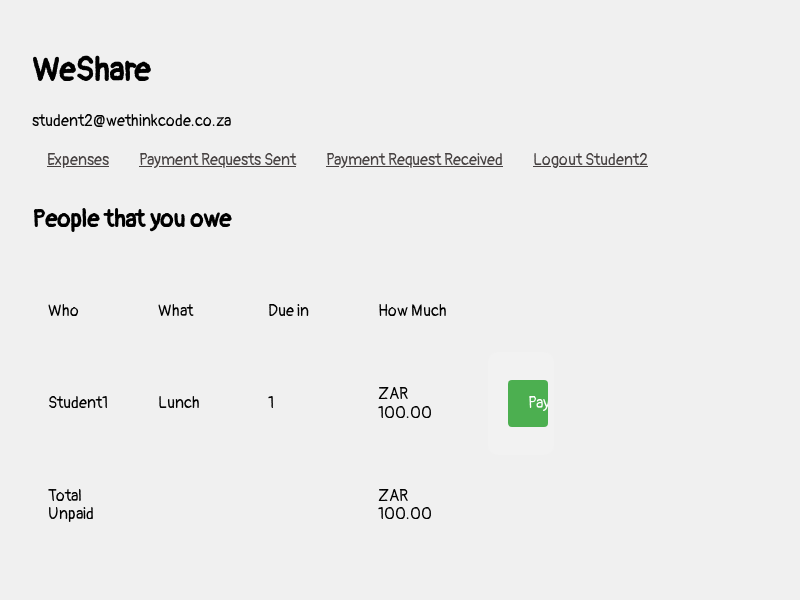
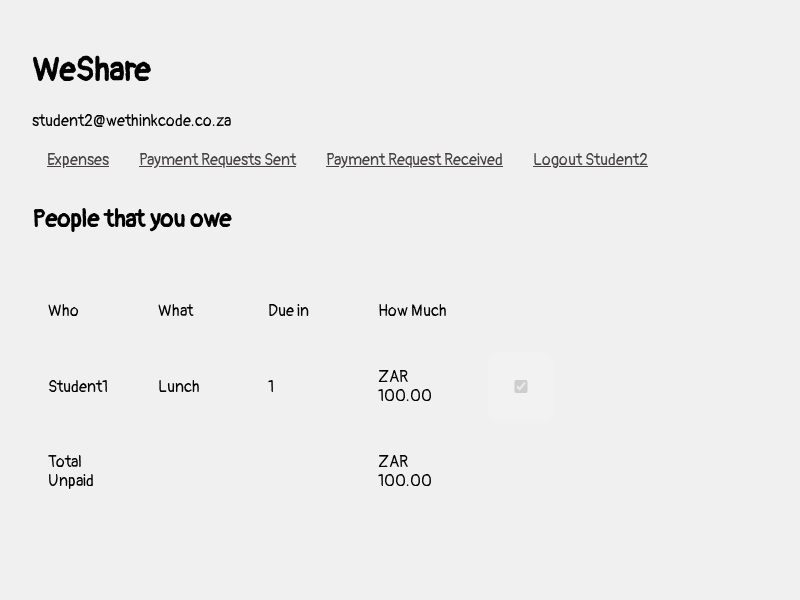
oof

diff --git a/src/main/resources/templates/expenses.html b/src/main/resources/templates/expenses.html
@@ -10,11 +10,8 @@
     <section class="expenseList">
         <h2>My Expenses</h2>
         <a id="add_expense" href="/newexpense">Add a new expense</a>
-        <div>
-
-        </div>
         <p id="no_expenses" th:if="${#lists.isEmpty(expenses)}">You don't have any expenses!</p>
-        <table th:unless="${#lists.isEmpty(expenses)}">
+        <table th:unless="${#lists.isEmpty(expenses) || allExpensesPaid}">
             <thead>
                 <tr>
                     <th>When</th>
@@ -26,19 +23,19 @@
                 </tr>
             </thead>
             <tbody>
-                
-                <tr  th:each="expense : ${expenses}">
+                <tr th:each="expense : ${expenses}">
                     
-                    <td th:id = "date_+${expense.id}" th:text="${expense.getDate()}">When</td>
-                    <td th:id="description_+${expense.id}">
-                        <a th:href="'/paymentrequest?expenseId=' +${expense.id}" th:id="payment_request_+${expense.id}" th:text="${expense.getDescription()}">What</a>
-                    </td>
-                    <td th:id = "amount_+${expense.id}" th:text="${expense.getAmount()}">Amount Spent</td>
-                    <td th:id = "request_+${expense.id}" th:text="${expense.totalAmountOfPaymentsRequested()}">Payments Requested</td>
-                    <td th:id = "received_+${expense.id}" th:text="${expense.totalAmountForPaymentsReceived()}">Payments Received</td>
-                    <td th:id = "nett_+${expense.id}" th:text="${expense.amountLessPaymentsReceived()}">Nett Expense</td>
-
+                        <td th:id = "date_+${expense.id}" th:text="${expense.getDate()}">When</td>
+                        <td th:id="description_+${expense.id}">
+                            <a th:href="'/paymentrequest?expenseId=' +${expense.id}" th:id="payment_request_+${expense.id}" th:text="${expense.getDescription()}">What</a>
+                        </td>
+                        <td th:id = "amount_+${expense.id}" th:text="${expense.getAmount()}">Amount Spent</td>
+                        <td th:id = "request_+${expense.id}" th:text="${expense.totalAmountOfPaymentsRequested()}">Payments Requested</td>
+                        <td th:id = "received_+${expense.id}" th:text="${expense.totalAmountForPaymentsReceived()}">Payments Received</td>
+                        <td th:id = "nett_+${expense.id}" th:text="${expense.amountLessPaymentsReceived()}">Nett Expense</td>
+                   
                 </tr>
+            
             </tbody>
             <tfoot> 
                 <tr> 

diff --git a/target/classes/templates/expenses.html b/target/classes/templates/expenses.html
@@ -10,11 +10,8 @@
     <section class="expenseList">
         <h2>My Expenses</h2>
         <a id="add_expense" href="/newexpense">Add a new expense</a>
-        <div>
-
-        </div>
         <p id="no_expenses" th:if="${#lists.isEmpty(expenses)}">You don't have any expenses!</p>
-        <table th:unless="${#lists.isEmpty(expenses)}">
+        <table th:unless="${#lists.isEmpty(expenses) || allExpensesPaid}">
             <thead>
                 <tr>
                     <th>When</th>
@@ -26,19 +23,19 @@
                 </tr>
             </thead>
             <tbody>
-                
-                <tr  th:each="expense : ${expenses}">
+                <tr th:each="expense : ${expenses}">
                     
-                    <td th:id = "date_+${expense.id}" th:text="${expense.getDate()}">When</td>
-                    <td th:id="description_+${expense.id}">
-                        <a th:href="'/paymentrequest?expenseId=' +${expense.id}" th:id="payment_request_+${expense.id}" th:text="${expense.getDescription()}">What</a>
-                    </td>
-                    <td th:id = "amount_+${expense.id}" th:text="${expense.getAmount()}">Amount Spent</td>
-                    <td th:id = "request_+${expense.id}" th:text="${expense.totalAmountOfPaymentsRequested()}">Payments Requested</td>
-                    <td th:id = "received_+${expense.id}" th:text="${expense.totalAmountForPaymentsReceived()}">Payments Received</td>
-                    <td th:id = "nett_+${expense.id}" th:text="${expense.amountLessPaymentsReceived()}">Nett Expense</td>
-
+                        <td th:id = "date_+${expense.id}" th:text="${expense.getDate()}">When</td>
+                        <td th:id="description_+${expense.id}">
+                            <a th:href="'/paymentrequest?expenseId=' +${expense.id}" th:id="payment_request_+${expense.id}" th:text="${expense.getDescription()}">What</a>
+                        </td>
+                        <td th:id = "amount_+${expense.id}" th:text="${expense.getAmount()}">Amount Spent</td>
+                        <td th:id = "request_+${expense.id}" th:text="${expense.totalAmountOfPaymentsRequested()}">Payments Requested</td>
+                        <td th:id = "received_+${expense.id}" th:text="${expense.totalAmountForPaymentsReceived()}">Payments Received</td>
+                        <td th:id = "nett_+${expense.id}" th:text="${expense.amountLessPaymentsReceived()}">Nett Expense</td>
+                   
                 </tr>
+            
             </tbody>
             <tfoot> 
                 <tr> 

diff --git a/src/main/resources/templates/paymentrequests_received.html b/src/main/resources/templates/paymentrequests_received.html
@@ -8,7 +8,7 @@
 <div layout:fragment="contents">
     <section class="expenseList">
         <h2>People that you owe</h2>
-        <p id="no_payment_requests_received" th:if="${#lists.isEmpty(paymentRequest)}">You don't owe anyone anything</p>
+        <p id="no_payment_requests_received" th:if="${#lists.isEmpty(paymentRequest)}">You don't owe anyone anything!</p>
         <table th:unless="${#lists.isEmpty(paymentRequest)}">
             <th>
                 <tr>
@@ -32,7 +32,7 @@
                     <td th:text="${PaymentRequests.getDescription}"></td>
                     <td th:text="${PaymentRequests.daysLeftToPay}"></td>
                     <td th:text="${PaymentRequests.getAmountToPay}"></td>
-                    <td>
+                    <td id="paid_1">
                         <form action="payment.action" method="post">
                             <label for="paymentId"></label>
                             <input type="hidden" name="paymentId" id="paymentId" th:value="${PaymentRequests.getId}">

diff --git a/target/classes/templates/paymentrequests_received.html b/target/classes/templates/paymentrequests_received.html
@@ -8,7 +8,7 @@
 <div layout:fragment="contents">
     <section class="expenseList">
         <h2>People that you owe</h2>
-        <p id="no_payment_requests_received" th:if="${#lists.isEmpty(paymentRequest)}">You don't owe anyone anything</p>
+        <p id="no_payment_requests_received" th:if="${#lists.isEmpty(paymentRequest)}">You don't owe anyone anything!</p>
         <table th:unless="${#lists.isEmpty(paymentRequest)}">
             <th>
                 <tr>
@@ -32,7 +32,7 @@
                     <td th:text="${PaymentRequests.getDescription}"></td>
                     <td th:text="${PaymentRequests.daysLeftToPay}"></td>
                     <td th:text="${PaymentRequests.getAmountToPay}"></td>
-                    <td>
+                    <td id="paid_1">
                         <form action="payment.action" method="post">
                             <label for="paymentId"></label>
                             <input type="hidden" name="paymentId" id="paymentId" th:value="${PaymentRequests.getId}">

diff --git a/src/main/resources/templates/paymentrequests_sent.html b/src/main/resources/templates/paymentrequests_sent.html
@@ -8,7 +8,7 @@
 <div layout:fragment="contents">
     <section class="expenseList">
         <h2>People that owe me</h2>
-        <p id="no_payment_requests_sent" th:if="${#lists.isEmpty(paymentRequest)}">Nobody owes you anything</p>
+        <p id="no_payment_requests_sent" th:if="${#lists.isEmpty(paymentRequest)}">Nobody owes you anything!</p>
         <table th:unless="${#lists.isEmpty(paymentRequest)}">
             <th>
                 <tr>
@@ -42,7 +42,7 @@
                     <td colspan="2">
                         
                     </td>
-                    <td th:text="${totalUnpaid}">
+                    <td id="grand_total" th:text="${totalUnpaid}">
                         
                     </td>
                 </tr>

diff --git a/target/classes/templates/paymentrequests_sent.html b/target/classes/templates/paymentrequests_sent.html
@@ -8,7 +8,7 @@
 <div layout:fragment="contents">
     <section class="expenseList">
         <h2>People that owe me</h2>
-        <p id="no_payment_requests_sent" th:if="${#lists.isEmpty(paymentRequest)}">Nobody owes you anything</p>
+        <p id="no_payment_requests_sent" th:if="${#lists.isEmpty(paymentRequest)}">Nobody owes you anything!</p>
         <table th:unless="${#lists.isEmpty(paymentRequest)}">
             <th>
                 <tr>
@@ -42,7 +42,7 @@
                     <td colspan="2">
                         
                     </td>
-                    <td th:text="${totalUnpaid}">
+                    <td id="grand_total" th:text="${totalUnpaid}">
                         
                     </td>
                 </tr>

diff --git a/src/main/resources/templates/paymentrequest.html b/src/main/resources/templates/paymentrequest.html
@@ -13,7 +13,7 @@
                 <td>
                     Date
                 </td>
-                <td id="expensedate" th:text="${expense.getDate()}">
+                <td id="expense_date" th:text="${expense.getDate()}">
                     
                 </td>
             </tr>
@@ -21,7 +21,7 @@
                 <td>
                     Description
                 </td>
-                <td id="expenseDescription" th:text="${expense.getDescription()}">
+                <td id="expense_description" th:text="${expense.getDescription()}">
 
                 </td>
             </tr>

diff --git a/target/classes/templates/paymentrequest.html b/target/classes/templates/paymentrequest.html
@@ -13,7 +13,7 @@
                 <td>
                     Date
                 </td>
-                <td id="expensedate" th:text="${expense.getDate()}">
+                <td id="expense_date" th:text="${expense.getDate()}">
                     
                 </td>
             </tr>
@@ -21,7 +21,7 @@
                 <td>
                     Description
                 </td>
-                <td id="expenseDescription" th:text="${expense.getDescription()}">
+                <td id="expense_description" th:text="${expense.getDescription()}">
 
                 </td>
             </tr>

diff --git a/src/main/resources/templates/newexpense.html b/src/main/resources/templates/newexpense.html
@@ -12,7 +12,7 @@
             <input type="text" id="description" name="description" required><br><br>
         
             <label for="date">Date</label>
-            <input type="date" id="date" name="date" required><br><br>
+            <input type="text" id="date" name="date" required><br><br>
         
             <label for="amount">Amount</label>
             <input type="number" id="amount" name="amount" required><br><br>

diff --git a/target/classes/templates/newexpense.html b/target/classes/templates/newexpense.html
@@ -12,7 +12,7 @@
             <input type="text" id="description" name="description" required><br><br>
         
             <label for="date">Date</label>
-            <input type="date" id="date" name="date" required><br><br>
+            <input type="text" id="date" name="date" required><br><br>
         
             <label for="amount">Amount</label>
             <input type="number" id="amount" name="amount" required><br><br>

diff --git a/src/main/java/weshare/controller/ExpensesController.java b/src/main/java/weshare/controller/ExpensesController.java
@@ -17,6 +17,8 @@ import java.math.BigDecimal;
 import java.time.LocalDate;
 import java.time.format.DateTimeFormatter;
 import java.util.Collection;
+import java.util.Collections;
+import java.util.HashMap;
 import java.util.Map;
 import java.util.stream.Collectors;
 
@@ -25,19 +27,36 @@ import static weshare.model.MoneyHelper.ZERO_RANDS;
 public class ExpensesController {
 
     public static final Handler view = context -> {
+        Map<String, Object> viewModel = new HashMap<>();
         ExpenseDAO expensesDAO = ServiceRegistry.lookup(ExpenseDAO.class);
         Person personLoggedIn = WeShareServer.getPersonLoggedIn(context);
 
         Collection<Expense> expenses = expensesDAO.findExpensesForPerson(personLoggedIn);
         MonetaryAmount totalExpense = totalExpense(expenses);
-        Map<String, Object> viewModel = Map.of("expenses", expenses, "totalExpense", totalExpense);
+
+        boolean allExpensesPaid = false;
+        if(totalExpense.equals(ZERO_RANDS)){
+            allExpensesPaid = true;
+        }
+
+        
+
+        if(allExpensesPaid){
+            viewModel = Map.of("expenses", Collections.emptyList());
+        }
+        else{
+            viewModel = Map.of("expenses", expenses, 
+                                            "totalExpense", totalExpense,
+                                            "allExpensesPaid", allExpensesPaid);
+        }
+        System.out.println(viewModel);
         context.render("expenses.html", viewModel);
     };
 
     private static MonetaryAmount totalExpense(Collection<Expense> expenses) {
         MonetaryAmount total = MoneyHelper.amountOf(0);
         for (Expense expense : expenses) {
-            total = total.add(expense.getAmount());
+            total = total.add(expense.amountLessPaymentsReceived());
         }
         return total;
     }
@@ -56,7 +75,7 @@ public class ExpensesController {
         String description = ctx.formParamMap().get("description").get(0);
         MonetaryAmount amount = MoneyHelper.amountOf(Integer.parseInt(ctx.formParamMap().get("amount").get(0)));
         String dateStr = ctx.formParamMap().get("date").get(0);
-        DateTimeFormatter dateFormatter = DateTimeFormatter.ofPattern("yyyy-MM-dd");
+        DateTimeFormatter dateFormatter = DateTimeFormatter.ofPattern("dd/MM/yyyy");
         LocalDate date = LocalDate.parse(dateStr, dateFormatter);
 
         // Create expense

diff --git a/src/test/java/weshare/webtests/WebTestRunner.java b/src/test/java/weshare/webtests/WebTestRunner.java
@@ -25,6 +25,7 @@ import java.nio.file.Path;
 import java.nio.file.Paths;
 import java.util.Arrays;
 import java.util.Objects;
+import java.util.concurrent.TimeUnit;
 
 import static org.assertj.core.api.Assertions.assertThat;
 
@@ -72,7 +73,7 @@ public abstract class WebTestRunner {
         WebDriverManager.firefoxdriver();
         ChromeOptions options = new ChromeOptions();
         options.addArguments("--no-sandbox"); // necessary for grading environment
-        options.addArguments("--headless");
+        // options.addArguments("--headless");
         options.addArguments("--disable-gpu");
         options.addArguments("--start-maximized");
         options.addArguments("--start-fullscreen");
